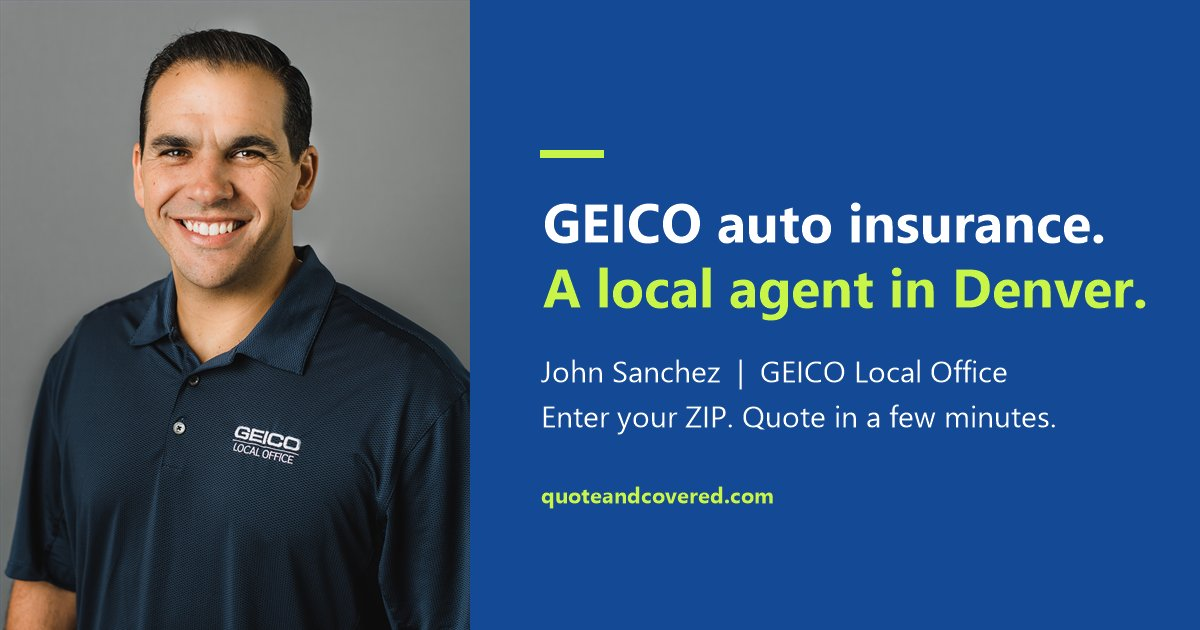
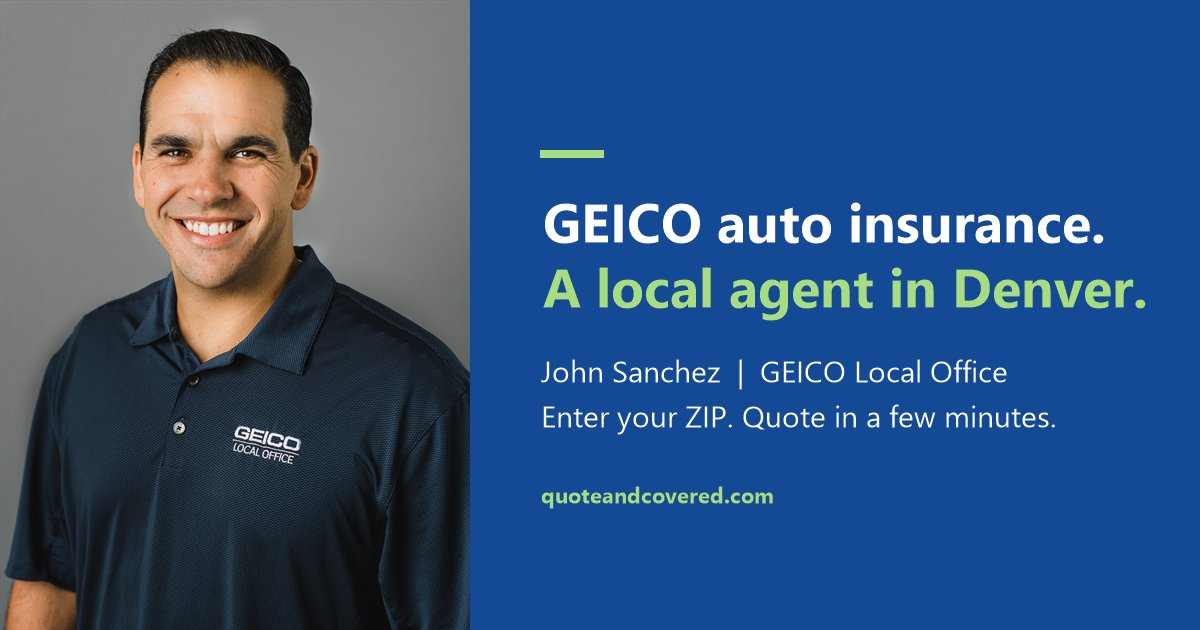
Hero tail: centered "Three steps" heading; accent green softened from neon lime to a pastel gecko green; preview image to match

Changed region(s): [[0.4317, 0.4222, 0.9558, 0.5127], [0.4317, 0.754, 0.6475, 0.8143], [0.4317, 0.2111, 0.5242, 0.2714]]

diff --git a/index.html b/index.html
@@ -34,7 +34,7 @@
   <style>
     :root{
       /* GEICO palette: logo blue #144995 (matches the Exclusive Agency lockup), text #222222, green #00843D, plus the bright blue, deep navy and lime geico.com uses on screen */
-      --blue:#144995; --blue-bright:#0057C2; --blue-mid:#004894; --navy:#062342; --blue-deep:#062342; --lime:#C8F547; --green:#00843D;
+      --blue:#144995; --blue-bright:#0057C2; --blue-mid:#004894; --navy:#062342; --blue-deep:#062342; --lime:#A8DC80; --green:#00843D;
       --ink:#222222; --muted:#5d6b7c; --line:#dfe6ef; --white:#fff; --off:#f4f7fb;
       --radius:16px; --shadow:0 20px 60px rgba(6,35,66,.3);
       --font:"Inter",system-ui,-apple-system,"Segoe UI",Roboto,Helvetica,Arial,sans-serif;
@@ -122,9 +122,10 @@
 
     /* steps: numbered timeline */
     .steps{display:grid;grid-template-columns:repeat(3,1fr);gap:32px;margin-top:44px;position:relative;text-align:left}
-    .hero .how{margin-top:44px;padding-top:36px;border-top:1px solid rgba(255,255,255,.14);text-align:left}
+    .hero .how{margin-top:44px;padding-top:40px;border-top:1px solid rgba(255,255,255,.14);text-align:center}
+    .hero .how h2{color:var(--white);margin-top:10px;font-size:clamp(24px,3vw,34px)}
     .hero .how .eyebrow{margin-bottom:0;color:var(--lime)}
-    .hero .steps{margin-top:22px}
+    .hero .steps{margin-top:34px}
     .hero .steps::before{background:rgba(255,255,255,.22)}
     .hero .step b{background:var(--lime);color:var(--navy);box-shadow:none}
     .hero .step h3{color:var(--white);font-size:17px}
@@ -239,6 +240,7 @@
       <p class="disclosure">Independently owned and operated by Peak Insurance Group LLC</p>
       <div class="how" id="how">
         <p class="eyebrow">How it works</p>
+        <h2>Three steps to your GEICO quote.</h2>
         <div class="steps">
           <div class="step"><b>1</b><h3>Enter your ZIP code</h3><p>That is all GEICO needs to start your quote.</p></div>
           <div class="step"><b>2</b><h3>See your GEICO quote</h3><p>You go straight to GEICO's secure quote page with our office attached.</p></div>
